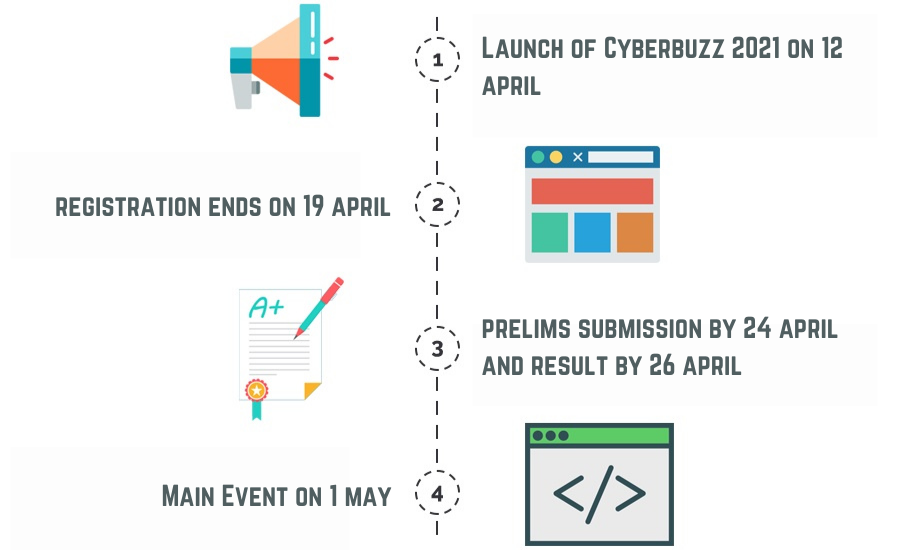
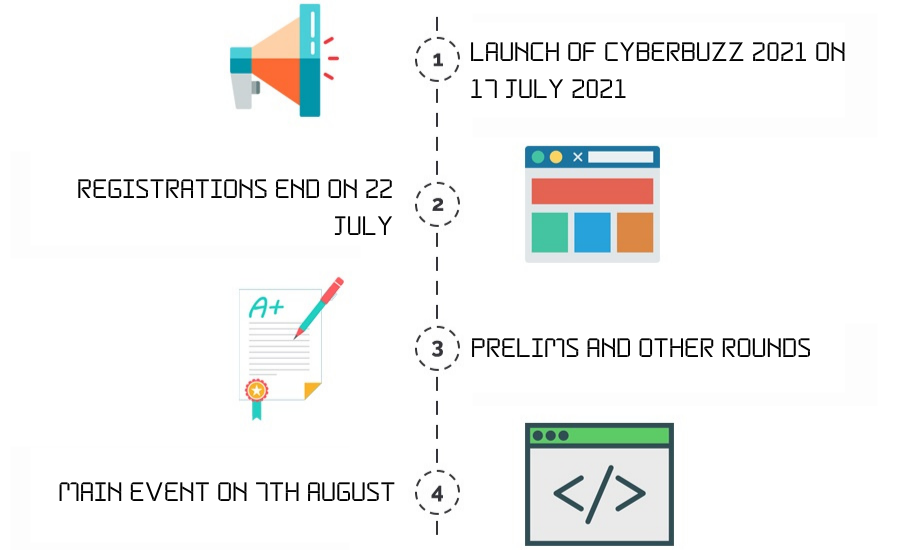
relaunch

diff --git a/index.html b/index.html
@@ -47,8 +47,8 @@
 		<td><a class="nav-item smoothscroll" href="#team">TEAM</a></td>
 	 	<td><a class="nav-item smoothscroll" href="teachers.html" target="_blank">OUR MENTORS</td>
 		<td><a class="nav-item smoothscroll" href="#contact">CONTACT</a></td>
-		<td><a class="nav-item" href="https://forms.office.com/r/pvEG6eMFmd" target="_blank">REGISTER</a></td>
-		<td><a class="nav-item smoothscroll" href="https://drive.google.com/drive/folders/1ACSwffUIJqe2cpl8fnPBHvWs_gOCRVmm" target = "_blank">OFFICIAL INVITE</a></td>
+		<td><a class="nav-item" href="https://bit.ly/3xIOlKM" target="_blank">REGISTER</a></td>
+		<td><a class="nav-item smoothscroll" href="https://bit.ly/3wNTp0b" target = "_blank">OFFICIAL INVITE</a></td>
 <!--		<td><a class="nav-item" href="/prelims" target="_blank">PRELIMS RESULTS</a></td>  -->
 		<!--<td><a class="nav-item" href="prelims.html" target="_blank">PRELIM RESULTS</a></td>-->
 		<td><a class="nav-item right" style= " margin-left: 0px;" href="https://fb.com/amitycyberbuzz" target="_blank"><img src="images/fb.png" style="height: 20px;"></a></td>
@@ -56,7 +56,7 @@
 		</tr></tbody></table>
 		</div>
 	</div>
-	<div class="head-info"><div class = "time-info" id="time-set">POSTPONED</div><p class = "date" style="margin: 0;">UNTIL FURTHER NOTICE</p></div>
+	<div class="head-info"><div class = "time-info" id="time-set"></div><p class = "date" style="margin: 0;">7TH AUGUST, 2021<br>The BUZZ is back!</p></div>
 </div>
 <div class="second-big" id="about">
 	<div class="img-info"><img src="images/Laptop_Graphic.png" class="img-info-real"></div>
@@ -447,9 +447,9 @@ background:linear-gradient(90deg, rgb(52, 73, 94) 0%, rgb(73, 75, 73) 80%);color
 <link rel="stylesheet" href="https://use.fontawesome.com/releases/v5.0.9/css/all.css" integrity="sha384-5SOiIsAziJl6AWe0HWRKTXlfcSHKmYV4RBF18PPJ173Kzn7jzMyFuTtk8JA7QQG1" crossorigin="anonymous">
 
 
-<!--<script>
+<script>
 // Set the date we're counting down to
-var countDownDate = new Date("May 1, 2021 11:00:00").getTime();
+var countDownDate = new Date("Aug 7, 2021 11:00:00").getTime();
 // Update the count down every 1 second
 var x = setInterval(function() {
     // Get todays date and time
@@ -470,6 +470,6 @@ var x = setInterval(function() {
         document.getElementById("time-set").innerHTML = "Get ready";
     }
 }, 1000);
-</script>-->
+</script>
 </body>
 </html>
